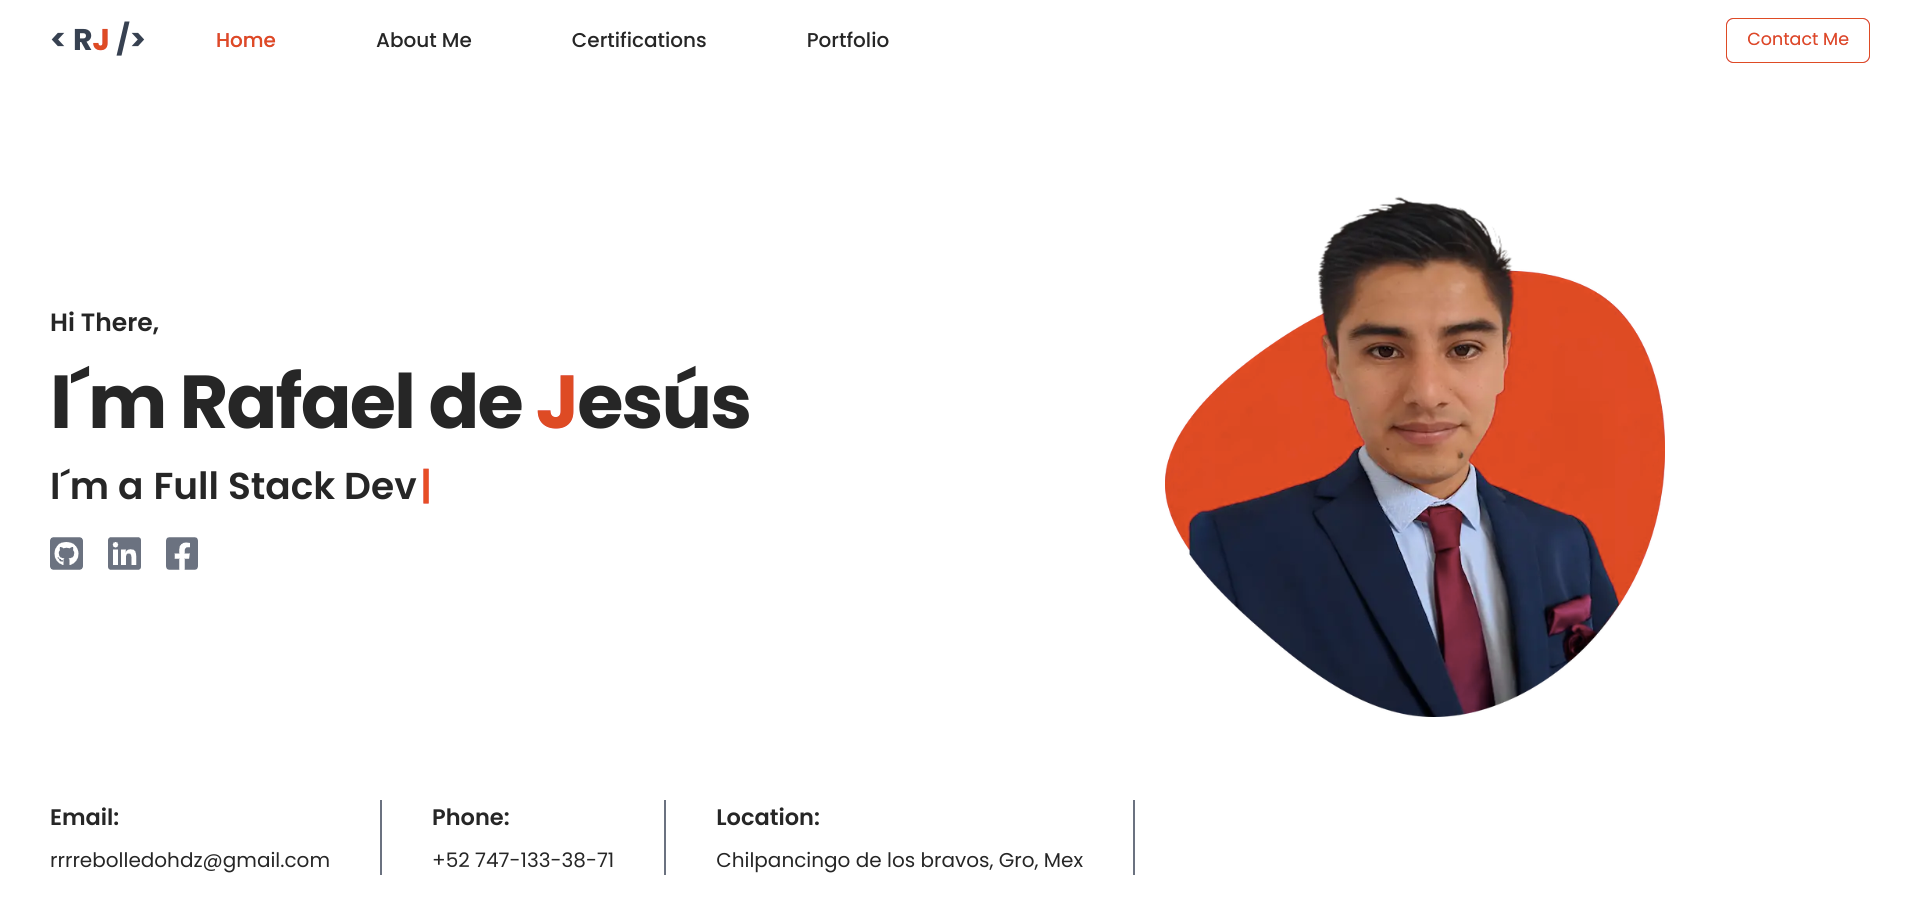
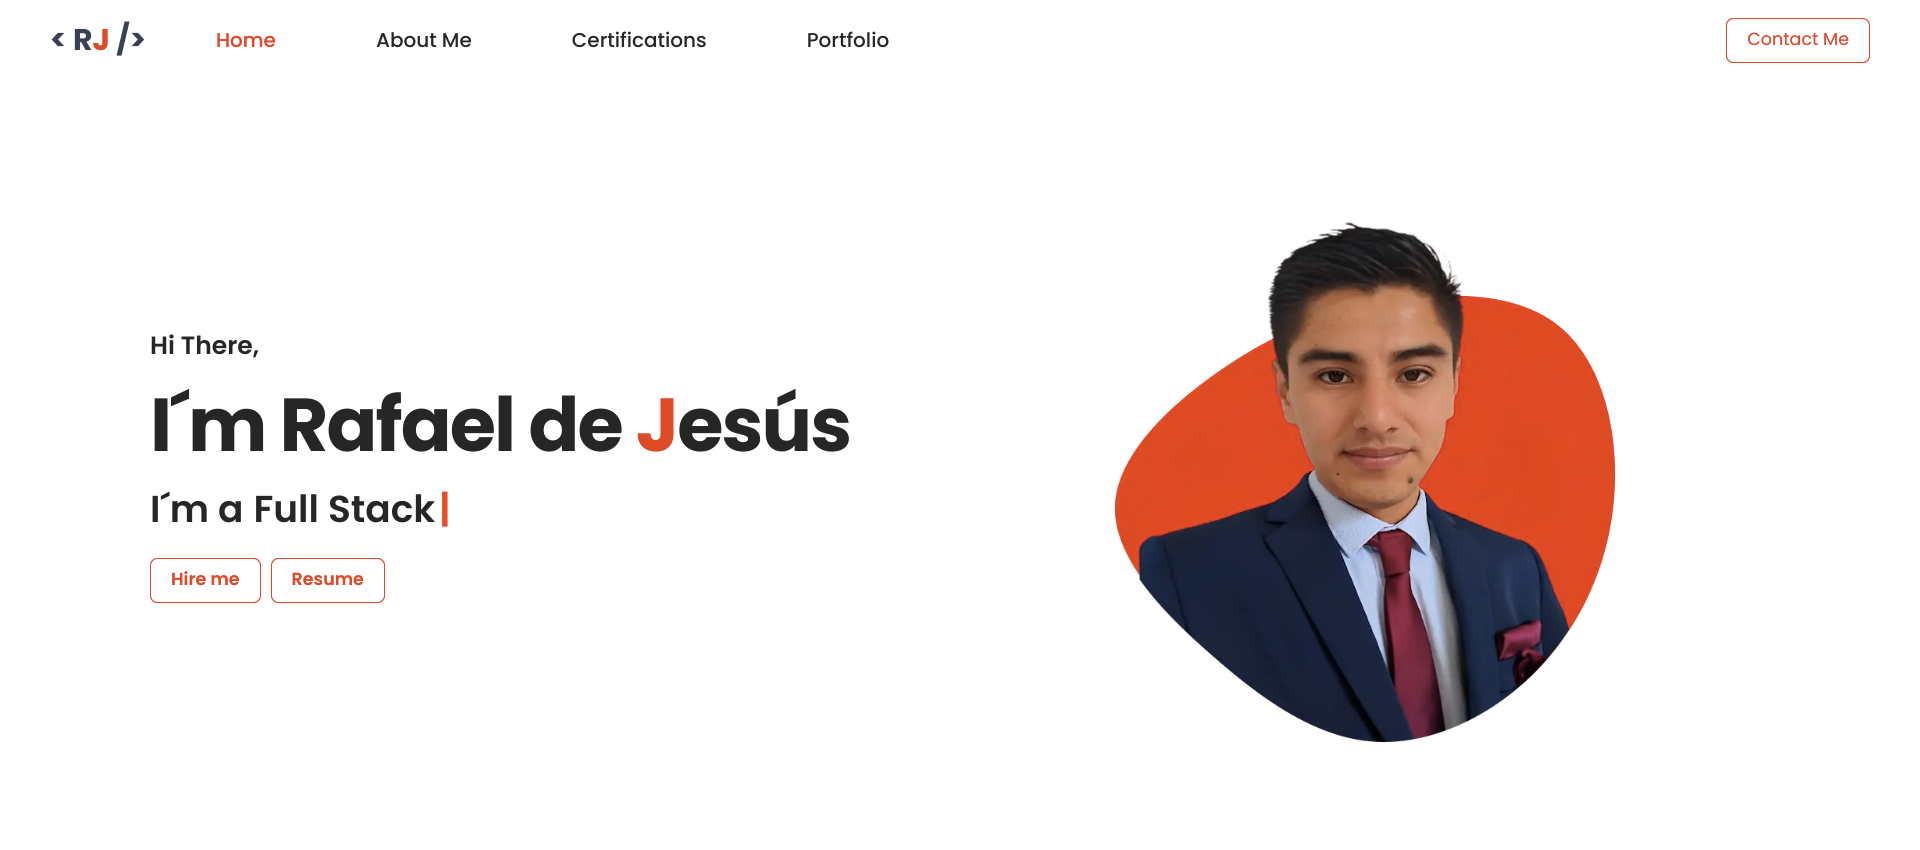
added page contact && more projects

diff --git a/src/pages/contact.tsx b/src/pages/contact.tsx
@@ -1,0 +1,79 @@
+import { ChangeEvent, useState } from 'react'
+import { Button } from '../components/Button';
+
+import SocialMedia from '@/components/SocialMedia';
+import ContactInformation from '@/components/ContactInformation';
+
+const initData = {
+  name: '',
+  email: '',
+  message: '',
+};
+const contact = () => {
+
+  const [{ name, email, message }, setFormContact] = useState(initData);
+
+  const onInputChange = (
+    e: ChangeEvent<HTMLInputElement | HTMLTextAreaElement>,
+  ) => {
+    const { name, value } = e.target;
+    setFormContact((prev) => ({ ...prev, [name]: value }));
+  };
+
+  return (
+    <section className="flex flex-col container mx-auto px-4 sm:px-6 md:px-10 gap-10">
+      <div className='mt-10'>
+        <h1 className="text-3xl font-semibold text-center">
+          <span className="text-red-600">C</span>ontact Me
+        </h1>
+      </div>
+      <div className='md:mx-36'>
+        <div className='grid grid-cols-2 mb-4 py-4 border-b border-red-600'>
+          <div className='flex flex-col gap-6'>
+            <h1 className="text-xl font-semibold text-red-600">Drop Me a Message</h1>
+            <ContactInformation />
+          </div>
+          <div>
+            <form className='flex flex-col gap-4'>
+              <input
+                type="text"
+                name="name"
+                placeholder="Name"
+                value={name}
+                onChange={(e) => onInputChange(e)}
+                className="block w-full p-2.5 shadow-sm rounded-lg border border-solid border-gray-500 text-sm text-neutral-800 focus:outline-none focus:border-none focus:ring-1 focus:ring-offset-0 focus:ring-red-600"
+                required
+              />
+
+              <input
+                type="text"
+                name="email"
+                placeholder="Email"
+                value={email}
+                onChange={(e) => onInputChange(e)}
+                className="block w-full p-2.5 shadow-sm rounded-lg border border-solid border-gray-500 text-sm text-neutral-800 focus:outline-none focus:border-none focus:ring-1 focus:ring-offset-0 focus:ring-red-600"
+                required
+              />
+              <textarea
+                value={message}
+                onChange={(e) => onInputChange(e)}
+                name="message"
+                placeholder="Message"
+                rows={4}
+                className="block w-full p-2.5 shadow-sm rounded-lg border border-solid border-gray-500 text-sm text-neutral-800 focus:outline-none focus:border-none focus:ring-1 focus:ring-offset-0 focus:ring-red-600"
+                required
+              />
+              <div className='flex justify-end'>
+                <Button>Send</Button>
+              </div>
+            </form>
+          </div>
+        </div>
+        <SocialMedia className='flex gap-5' />
+      </div>
+
+    </section>
+  )
+}
+
+export default contact

diff --git a/src/components/ContactInformation.tsx b/src/components/ContactInformation.tsx
@@ -1,42 +1,61 @@
 
 import Link from 'next/link';
 import { v4 as uuidv4 } from 'uuid';
+import { FontAwesomeIcon } from '@fortawesome/react-fontawesome';
+import { IconDefinition, faPhone, faEnvelope, faLocationDot } from '@fortawesome/free-solid-svg-icons';
 
 type IContactInformation = {
-  label: string;
+  icon: IconDefinition;
   value: string;
   link?: string;
 };
 
 const contactInformation: IContactInformation[] = [
   {
-    label: 'Email',
+    icon: faEnvelope,
     value: 'rrrrebolledohdz@gmail.com',
     link: 'mailto:rrrrebolledohdz@gmail.com',
   },
   {
-    label: 'Phone',
+    icon: faPhone,
     value: '+52 747-133-38-71',
     link: 'https://api.whatsapp.com/send?phone=7471333871',
   },
   {
-    label: 'Location',
+    icon: faLocationDot,
     value: 'Chilpancingo de los bravos, Gro, Mex',
   },
 ];
+/*
+<div
+  key={uuidv4()}
+  className="text-neutral-800 flex flex-col gap-2 first-of-type:pl-0 px-10 border-r-2 border-r-gray-500"
+>
+  <span className="font-semibold text-lg">{label}:</span>
+  {link ? (
+    <Link href={link} passHref legacyBehavior className="cursor-pointer font-normal select-text">
+      <a target="_blank" rel="noreferrer">
+        {value}
+      </a>
+    </Link>
+  ) : (
+    <span className="font-normal select-text">{value}</span>
+  )}
+</div> */
 
 const ContactInformation = () => {
   return (
-    <div className="flex">
-      {contactInformation.map(({ label, value, link }) => (
-        <div
-          key={uuidv4()}
-          className="text-neutral-800 flex flex-col gap-2 first-of-type:pl-0 px-10 border-r-2 border-r-gray-500"
-        >
-          <span className="font-semibold text-lg">{label}:</span>
+    <div className="flex flex-col gap-6">
+      {contactInformation.map(({ icon, value, link }) => (
+        <div key={uuidv4()} className='flex items-center gap-4'>
+          <FontAwesomeIcon
+            icon={icon}
+            className="text-neutral-800 hover:cursor-pointer"
+            style={{ fontSize: 25 }}
+          />
           {link ? (
             <Link href={link} passHref legacyBehavior className="cursor-pointer font-normal select-text">
-              <a target="_blank" rel="noreferrer">
+              <a target="_blank" rel="noreferrer" className='hover:underline hover:underline-offset-2'>
                 {value}
               </a>
             </Link>

diff --git a/src/pages/index.tsx b/src/pages/index.tsx
@@ -1,11 +1,11 @@
 import { Typewriter } from 'react-simple-typewriter';
 import ProfilePhoto from '@/components/ProfilePhoto';
 import ContactInformation from '@/components/ContactInformation';
-import SocialMedia from '@/components/SocialMedia';
+import { Button } from '../components/Button';
 
 export default function Home() {
   return (
-    <section className="min-h-[calc(100vh-4rem)] flex flex-col">
+    <section className="min-h-[calc(100vh-4rem)] flex flex-col container mx-auto md:px-20">
       <div className="flex-1 grid grid-cols-2">
         <div className="font-semibold text-neutral-800 gap-5 flex flex-col justify-center">
           <span className="text-xl">Hi There,</span>
@@ -23,14 +23,14 @@ export default function Home() {
               words={['Software engineer', 'Full Stack Developer']}
             />
           </h4>
-          <SocialMedia className='flex gap-5'/>
+          <div className='flex gap-2'>
+            <Button>Hire me</Button>
+            <Button>Resume</Button>
+          </div>
         </div>
         <div className="grid place-content-center">
           <ProfilePhoto />
         </div>
-      </div>
-      <div className="h-24">
-        <ContactInformation />
       </div>
     </section>
   );

diff --git a/src/components/SocialMedia.tsx b/src/components/SocialMedia.tsx
@@ -11,21 +11,21 @@ const SocialMedia = ({ className = '' }: Props) => {
       <Link href="https://github.com/ReboDev94">
         <FontAwesomeIcon
           icon={faGithubSquare}
-          className="text-gray-500 hover:text-gray-900 hover:cursor-pointer"
+          className="text-neutral-800 hover:text-gray-900 hover:cursor-pointer"
           style={{ fontSize: 30 }}
         />
       </Link>
       <Link href="https://www.linkedin.com/in/rafael-de-jesus-rebolledo-hern%C3%A1ndez-rebodev/">
         <FontAwesomeIcon
           icon={faLinkedin}
-          className="text-gray-500 hover:text-blue-600 hover:cursor-pointer"
+          className="text-neutral-800 hover:text-blue-600 hover:cursor-pointer"
           style={{ fontSize: 30 }}
         />
       </Link>
       <Link href="https://www.facebook.com/rebolledohernandez">
         <FontAwesomeIcon
           icon={faFacebookSquare}
-          className="text-gray-500 hover:text-blue-500 hover:cursor-pointer"
+          className="text-neutral-800 hover:text-blue-500 hover:cursor-pointer"
           style={{ fontSize: 30 }}
         />
       </Link>

diff --git a/src/components/NavBar.tsx b/src/components/NavBar.tsx
@@ -66,7 +66,7 @@ const NavBar = () => {
           </div>
         </div>
         <div className="hidden md:block">
-          <Button>Contact Me</Button>
+          <Button onClick={()=>router.push('/contact')}>Contact Me</Button>
         </div>
       </div>
     </nav>
